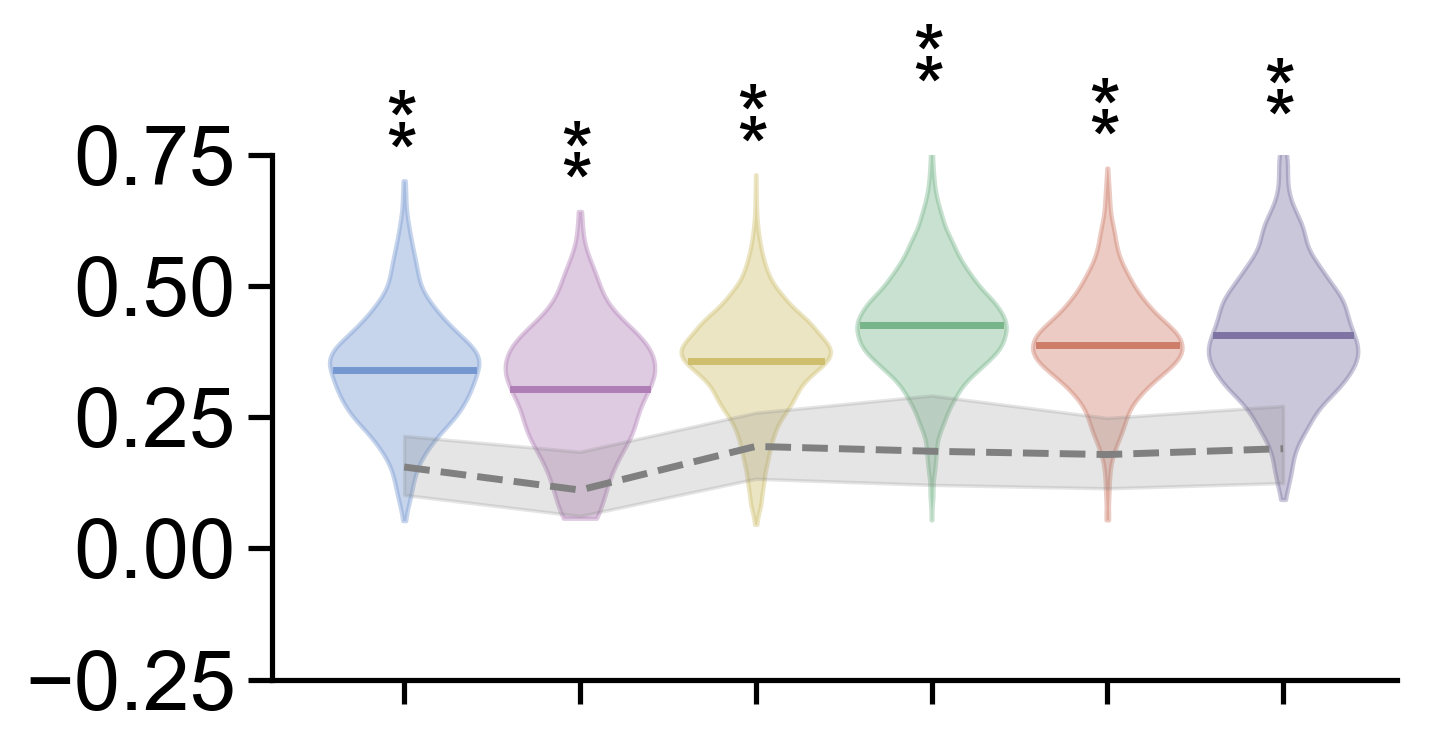
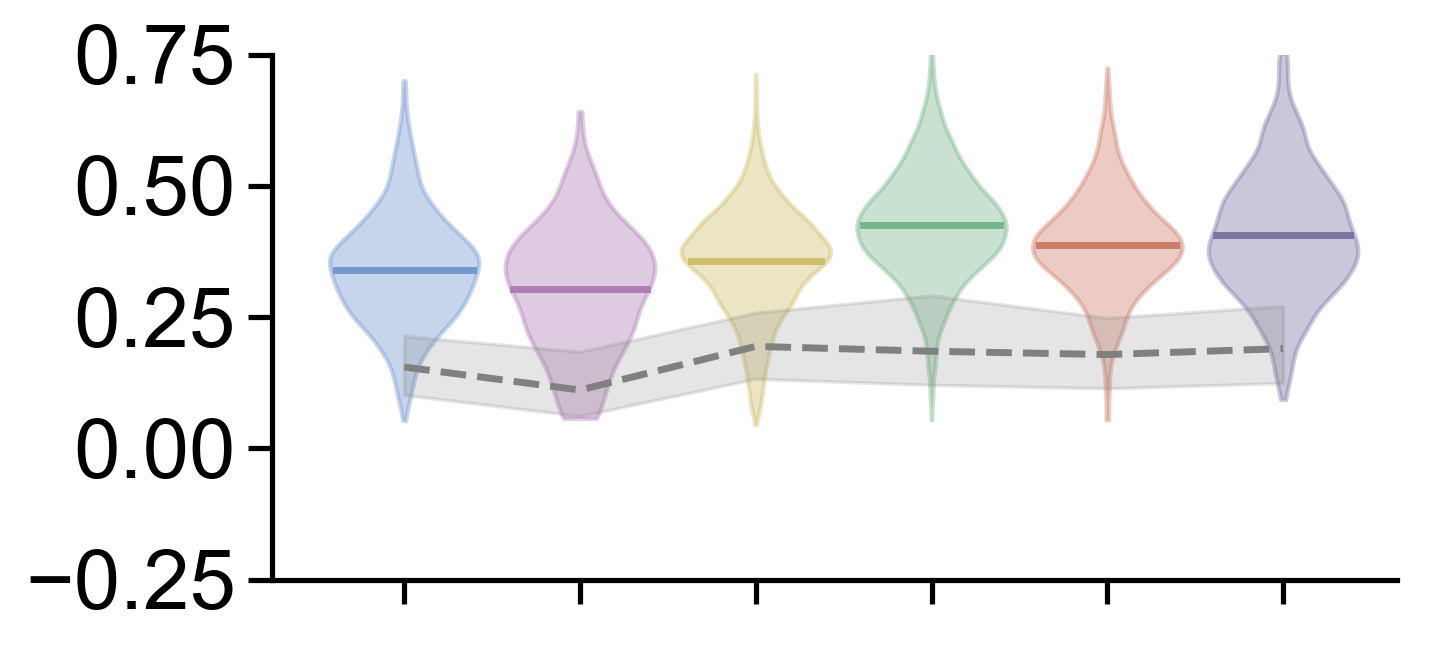
Fixed MDS plotting function

diff --git a/plot_main.py b/plot_main.py
@@ -96,8 +96,8 @@ for k in circuit_counts:
 			lists = lists.append(R)
 		lists.to_csv(outfile, index=None)
 
-Select optimal number of words per domain
-Note: Run on Sherlock, generating ontology/lists/*_oplen.csv
+# Select optimal number of words per domain
+# Note: Run on Sherlock, generating ontology/lists/*_oplen.csv
 
 # Select optimal number of domains
 import torch, math
@@ -594,6 +594,9 @@ gen_dx = {"data-driven": [0.39, 0.38, 0.37, 0.39, 0.39, 0.38],
 mod_ds = {"data-driven": 0.09, "rdoc": 0.09, "dsm": 0.13}
 gen_ds = {"data-driven": 0.11, "rdoc": 0.09, "dsm": 0.13}
 
+# Significance level for statistical comparison tests
+alpha = 0.001
+
 for framework in frameworks:
 
 	print("\n-- Processing {} framework --".format(framework))
@@ -736,7 +739,7 @@ for framework in frameworks:
 	stats = utilities.compare_to_null(df_null, df, domains, n_iter, alpha=alpha)
 
 	modularity.plot_violins(framework, domains, stats, df_null, df_obs, palettes[framework], 
-				 			dx=mod_dx[framework], ds=mod_ds[framework], alphas=[0,0,0], interval=0.999, print_fig=False,
+				 			dx=mod_dx[framework], ds=mod_ds[framework], alphas=[0], interval=0.999, print_fig=False,
 				 			ylim=[0.75,1.75], yticks=[0.75,1,1.25,1.5,1.75], font=arial, path="modularity/")
 
 
@@ -794,17 +797,14 @@ for framework in frameworks:
 	stats = utilities.compare_to_null(df_null, df, domains, n_iter, alpha=alpha)
 
 	archetype.plot_violins(framework, domains, stats, df_null, df_obs, palettes[framework], 
-			 	 		   dx=gen_dx[framework], ds=gen_ds[framework], alphas=alphas, interval=0.999, print_fig=False,
+			 	 		   dx=gen_dx[framework], ds=gen_ds[framework], alphas=[0], interval=0.999, print_fig=False,
 			 	 		   ylim=[-0.25,0.75], yticks=[-0.25,0,0.25,0.5,0.75], font=arial, path="archetype/")
 
 
 ### Article partitions ###
 print("\nPlotting MDS of article partitions")
 
-import matplotlib.pyplot as plt
-
-vecs = act_bin.copy()
-vecs[words] = dtm_bin[words]
+from mds import mds
 
 partitions = {framework: pd.read_csv("partition/data/doc2dom_{}.csv".format(
 									 framework), index_col=0, header=None) - 1.0 
@@ -812,8 +812,7 @@ partitions = {framework: pd.read_csv("partition/data/doc2dom_{}.csv".format(
 
 colors = {}
 for framework in frameworks:
-	colors[framework] = [palettes[framework][int(partitions[framework].loc[pmid])] 
-						 for pmid in vecs.index]
+	colors[framework] = [palettes[framework][int(partitions[framework].loc[pmid])] for pmid in pmids]
 
 shapes = {"data-driven": ["o", "v", "^", ">", "<", "s"],
 		  "rdoc": ["o", "v", "^", ">", "<", "s"],
@@ -821,14 +820,18 @@ shapes = {"data-driven": ["o", "v", "^", ">", "<", "s"],
 
 markers = {}
 for framework in frameworks:
-	markers[framework] = [shapes[framework][int(partitions[framework].loc[pmid])] 
-						  for pmid in vecs.index]
+	markers[framework] = [shapes[framework][int(partitions[framework].loc[pmid])] for pmid in pmids]
 
-X = pd.read_csv(outfile, index_col=0, header=0).values
+mds_metric = True
+eps = 0.001
+max_iter = 5000
+
+mds_file = "mds/data/mds_metric{}_eps{}_iter{}.csv".format(int(mds_metric), eps, max_iter)
+X = pd.read_csv(mds_file, index_col=0, header=0).values
 
 for framework in frameworks:
-	plot_mds(X, framework, colors, markers, metric=True, eps=0.001, max_iter=5000, 
-			 path="mds/", print_fig=False)
+	mds.plot_mds(X, framework, colors, markers, metric=mds_metric, eps=eps, max_iter=max_iter, 
+			 	 path="mds/", print_fig=False)
 
 
 
